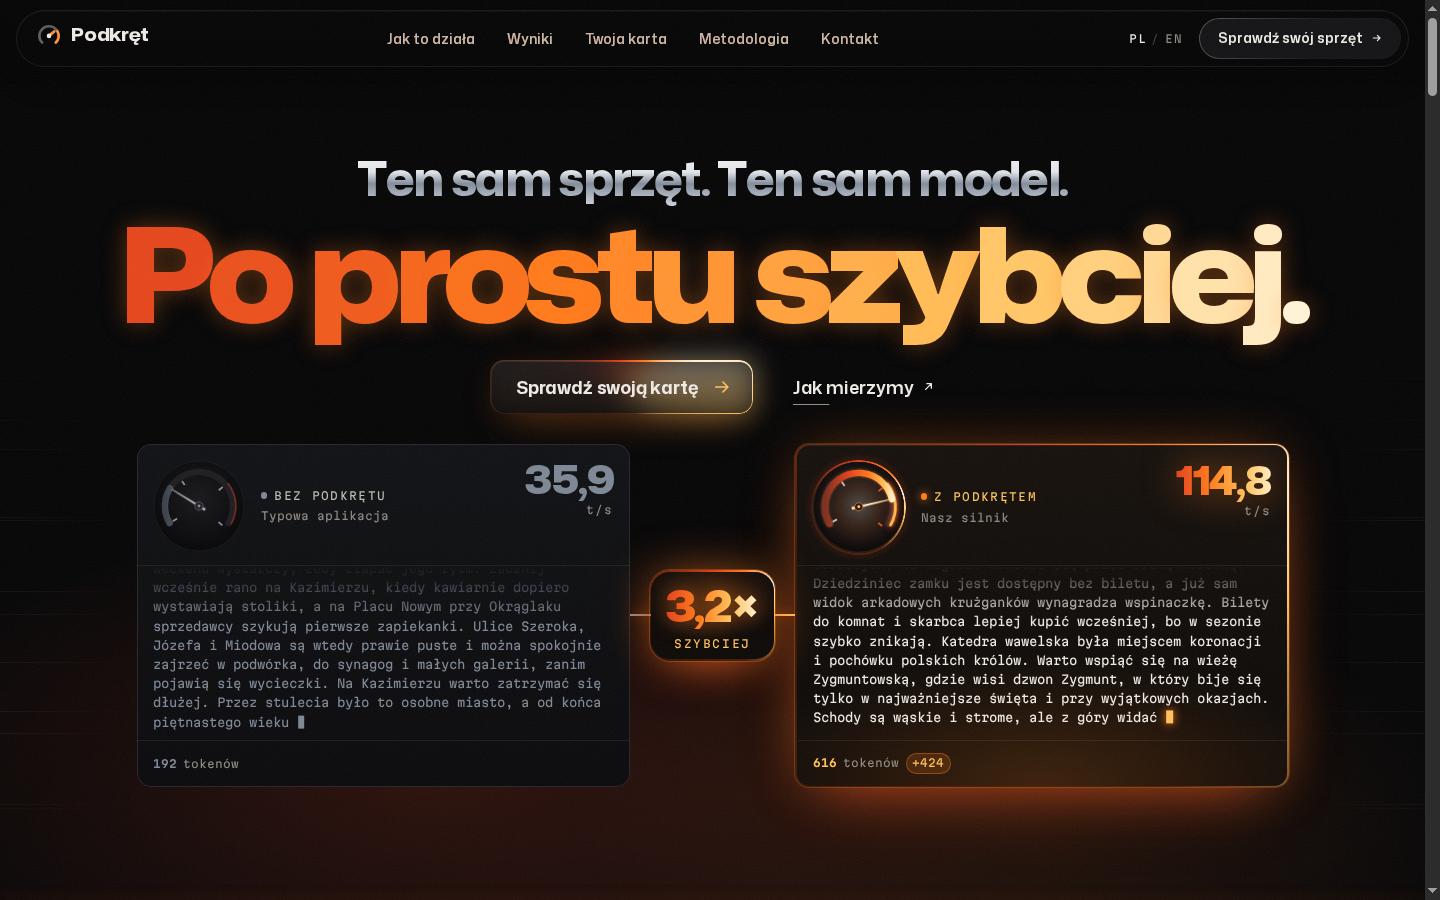
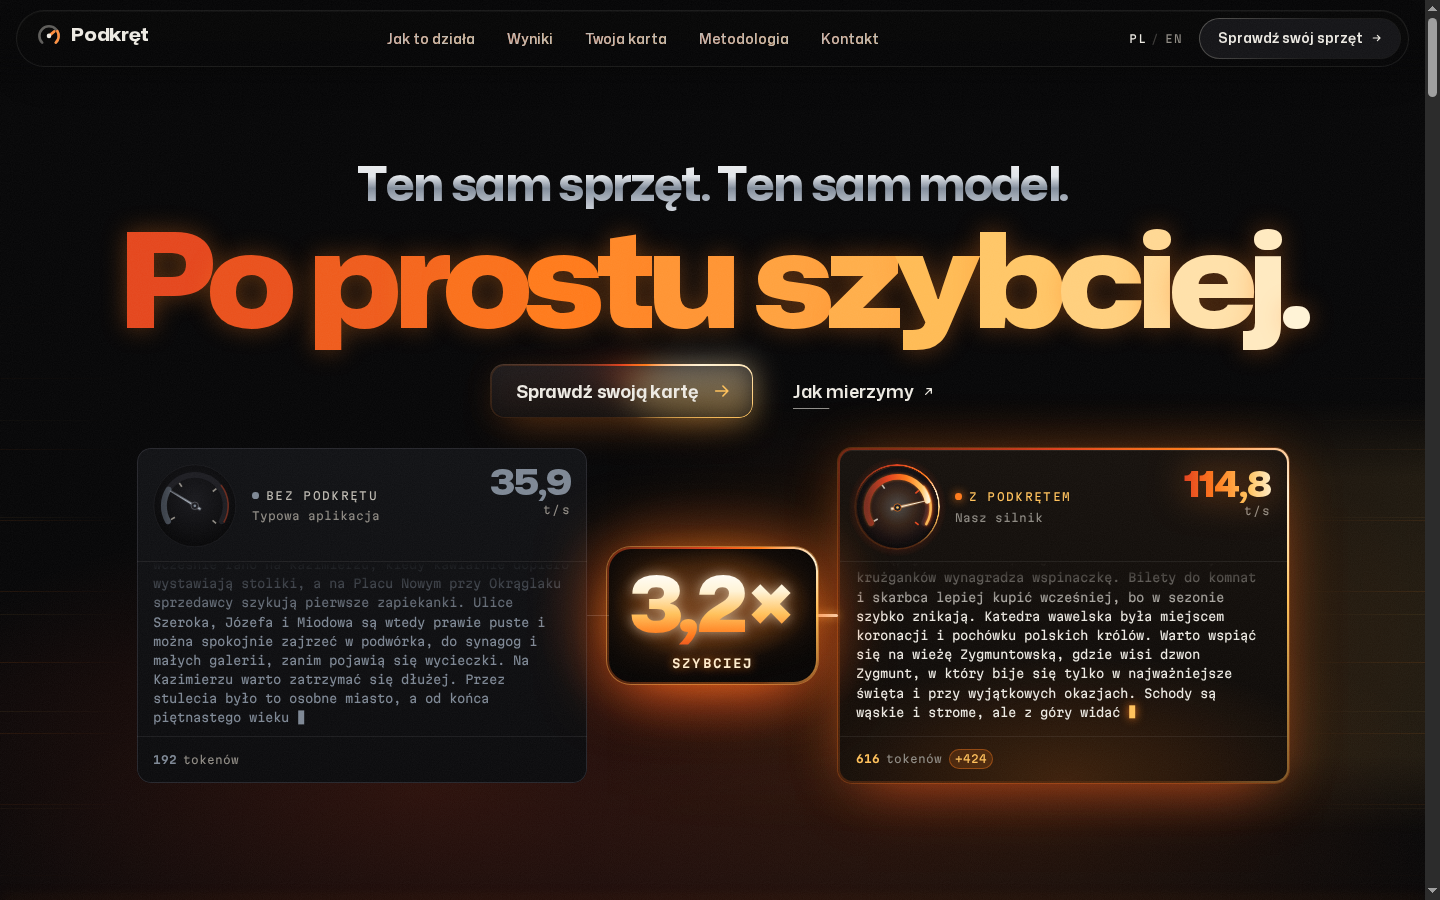
landing hero v3.2: the 3,2× badge hits hard, speed lines behind the duel
Badge (StreamDuel seam mode): about twice the size (numerals ≈ 5,5rem at 1440), white-hot to
heat gradient with its own glow, a near-black plate with a hot core, a heat bloom around it whose
opacity fires with our MTP bursts (every 6th step, ~6 Hz; the numerals pulse by transform), a
faster turning heat edge. The seam line runs dim steel into the typical pane and a bright 3 px
heat line into ours; stacked on phones it runs vertically, the badge between the panes.

Background: new fx/SpeedLines behind the duel, across the full screen width: streaks flowing
left -> right, few slow thin steel ones on the typical side (on phones: above), many fast hot ones
with a white-hot head on ours, three depths for parallax. Every streak is a composited layer
moved by a CSS transform (no canvas, no per-frame script), seeded layout (SSR = client), paused
off screen, reduced motion = a static heat gradient. The heat field idles hotter (0,8, streak
boost 0,35). qa:clip clean on /pl/ and /en/.
Screens: app/screens/v2/hero-race/ (0/2/10 s at 1440 and 390, reduced, EN).

diff --git a/app/landing/src/lib/fx/StreamDuel.svelte b/app/landing/src/lib/fx/StreamDuel.svelte
@@ -126,6 +126,10 @@
 	/** Per lane: MTP steps seen and the step twitch (alternating sign, decays in ~40 ms). */
 	const stepsSeen = [0, 0];
 	const kick = [0, 0];
+	/** The speed-up badge's burst pulse (0..1) and its layers (seam mode). */
+	let pulse = 0;
+	let coreEl: HTMLElement | undefined = $state();
+	let bloomEl: HTMLElement | undefined = $state();
 
 	function measure() {
 		feeds.forEach((f, i) => {
@@ -233,10 +237,17 @@
 					if (l.id === 'hot' && steps > stepsSeen[i]) {
 						const sign = steps % 2 ? 1 : -1;
 						kick[i] = sign * 0.025 * l.tps * (0.7 + 0.3 * Math.abs(Math.sin(steps * 1.7)));
+						// the speed-up badge fires with our bursts (every 6th step, ~6 Hz: visible, not a buzz)
+						if (steps % 6 === 0) pulse = 1;
 					}
 					stepsSeen[i] = steps;
 					kick[i] *= Math.exp(-d / 0.04);
 					dials[i]?.set(Math.max(0, s.x + kick[i]));
+				}
+				if (coreEl && bloomEl) {
+					pulse *= Math.exp(-d / 0.11);
+					coreEl.style.transform = `scale(${(1 + 0.045 * pulse).toFixed(4)})`;
+					bloomEl.style.opacity = (0.6 + 0.4 * pulse).toFixed(3);
 				}
 			})
 		);
@@ -286,8 +297,9 @@
 		{#if seam}
 			<p class="seamgain">
 				<span class="pill">
+					<span class="bloom" bind:this={bloomEl}></span>
 					<span class="ring"></span>
-					<span class="core"><Ratio value={gain} {lang} size="md" replay={countUp && ran ? 1 : 0} duration={1400} /><span class="fx">{labels.faster}</span></span>
+					<span class="core" bind:this={coreEl}><Ratio value={gain} {lang} size="md" replay={countUp && ran ? 1 : 0} duration={1400} /><span class="fx">{labels.faster}</span></span>
 				</span>
 			</p>
 		{/if}
@@ -677,7 +689,9 @@
 			gap: 0.3rem;
 		}
 	}
-	/* the speed-up: one glowing badge on the seam, a heat line running through it into both panes */
+	/* the speed-up: the hero's loudest element after the headline. A dark plate with a white-hot
+	 * core and a heat bloom that fires with our bursts; the seam line runs dim steel into the
+	 * typical pane and bright heat into ours. */
 	.seamgain {
 		grid-column: 2;
 		grid-row: 1 / span 3;
@@ -688,30 +702,53 @@
 		display: grid;
 		place-items: center;
 	}
-	.seamgain::before {
+	.seamgain::before,
+	.seamgain::after {
 		content: '';
 		position: absolute;
 		z-index: -1;
 		top: 50%;
+	}
+	.seamgain::before {
 		left: calc(-1 * var(--cg));
+		right: 50%;
+		height: 1px;
+		background: linear-gradient(90deg, rgb(125 135 148 / 0.35), rgb(125 135 148 / 0.7));
+	}
+	.seamgain::after {
+		left: 50%;
 		right: calc(-1 * var(--cg));
-		height: 2px;
+		height: 3px;
 		margin-top: -1px;
-		background: linear-gradient(90deg, var(--before), var(--heat-2) 35%, var(--heat-4));
-		box-shadow: 0 0 12px rgb(255 122 26 / 0.6);
+		border-radius: 3px;
+		background: linear-gradient(90deg, var(--heat-3), var(--heat-5));
+		box-shadow:
+			0 0 8px var(--heat-4),
+			0 0 22px rgb(255 122 26 / 0.8);
 	}
 	.pill {
 		position: relative;
 		isolation: isolate;
 		display: grid;
-		padding: 0.85rem 1rem 0.75rem;
-		border-radius: 1.25rem;
+		padding: 1rem 1.5rem 0.9rem;
+		border-radius: 1.5rem;
 		box-shadow:
-			0 0 0 1px rgb(255 122 26 / 0.3),
-			0 0 48px -6px rgb(255 122 26 / 0.65),
-			0 20px 50px -24px rgb(226 64 28 / 0.8);
+			0 0 0 1px rgb(255 193 90 / 0.45),
+			0 0 70px -4px rgb(255 122 26 / 0.75),
+			0 24px 60px -24px rgb(226 64 28 / 0.9);
 	}
-	/* a turning heat edge (compositor only) around a dark core */
+	/* the halo around the plate (opacity only: it fires with the bursts) */
+	.bloom {
+		position: absolute;
+		z-index: -2;
+		inset: -45% -35%;
+		border-radius: 50%;
+		background: radial-gradient(closest-side, rgb(255 193 90 / 0.55), rgb(255 122 26 / 0.3) 45%, rgb(226 64 28 / 0.12) 70%, transparent);
+		opacity: 0.6;
+		pointer-events: none;
+		will-change: opacity;
+	}
+	/* a turning heat edge (compositor only) around a near-black plate */
 	.ring {
 		position: absolute;
 		inset: 0;
@@ -727,8 +764,8 @@
 		width: 200%;
 		aspect-ratio: 1;
 		translate: -50% -50%;
-		background: conic-gradient(var(--heat-2), var(--heat-3) 10%, var(--heat-5) 17%, var(--heat-4) 24%, rgb(255 122 26 / 0.18) 40%, rgb(255 122 26 / 0.1) 75%, var(--heat-2));
-		animation: turn 3.2s linear infinite paused;
+		background: conic-gradient(var(--heat-2), var(--heat-3) 10%, var(--heat-5) 17%, var(--heat-4) 24%, rgb(255 122 26 / 0.25) 40%, rgb(255 122 26 / 0.15) 75%, var(--heat-2));
+		animation: turn 2.6s linear infinite paused;
 		will-change: transform;
 	}
 	.run .ring::before {
@@ -737,26 +774,37 @@
 	.ring::after {
 		content: '';
 		position: absolute;
-		inset: 1.5px;
-		border-radius: calc(1.25rem - 1.5px);
+		inset: 2px;
+		border-radius: calc(1.5rem - 2px);
 		background:
-			radial-gradient(80% 70% at 50% 30%, rgb(255 122 26 / 0.22), transparent 70%),
-			#0d0907;
+			radial-gradient(60% 55% at 50% 42%, rgb(255 243 214 / 0.16), rgb(255 122 26 / 0.12) 55%, transparent 80%),
+			#060403;
 	}
 	.core {
 		display: grid;
 		justify-items: center;
-		gap: 0.25rem;
+		gap: 0.35rem;
 		line-height: 1;
+		will-change: transform;
+	}
+	/* the factor: twice the size of a pane rate, white-hot to heat, with its own glow */
+	.pill .core :global(.speedup) {
+		--rx-fs: clamp(3rem, 1.6rem + 3.6vw, 5.75rem);
+		background: linear-gradient(180deg, #fff 8%, var(--heat-5) 32%, var(--heat-4) 58%, var(--heat-3) 82%, var(--heat-2));
+		-webkit-background-clip: text;
+		background-clip: text;
+		filter: drop-shadow(0 0 6px rgb(255 243 214 / 0.55)) drop-shadow(0 0 22px rgb(255 122 26 / 0.7));
 	}
 	.fx {
 		font-family: var(--font-mono);
-		font-size: var(--fs-2xs);
-		letter-spacing: 0.14em;
+		font-size: var(--fs-xs);
+		font-weight: 600;
+		letter-spacing: 0.18em;
 		text-transform: uppercase;
-		color: var(--heat-4);
+		color: var(--heat-5);
+		text-shadow: 0 0 10px rgb(255 122 26 / 0.8);
 	}
-	/* phones and small tablets: the panes stack; the badge sits between them, the heat line across */
+	/* phones and small tablets: the panes stack; the badge sits between them */
 	@media (max-width: 720px) {
 		.panes.seam {
 			grid-template-columns: minmax(0, 1fr);
@@ -773,11 +821,29 @@
 		.seamgain {
 			grid-column: 1;
 			grid-row: 4;
-			padding-block: 0.8rem;
+			padding-block: 1.25rem;
+		}
+		/* stacked: the seam runs vertically, dim up into the typical pane, bright down into ours */
+		.seamgain::before,
+		.seamgain::after {
+			left: 50%;
+			right: auto;
+			margin: 0;
 		}
 		.seamgain::before {
-			left: 0;
-			right: 0;
+			top: 0;
+			bottom: 50%;
+			width: 1px;
+			height: auto;
+			background: linear-gradient(180deg, rgb(125 135 148 / 0.35), rgb(125 135 148 / 0.7));
+		}
+		.seamgain::after {
+			top: 50%;
+			bottom: 0;
+			width: 3px;
+			height: auto;
+			margin-left: -1px;
+			background: linear-gradient(180deg, var(--heat-3), var(--heat-5));
 		}
 	}
 	/* a narrow header: the dial sits above the header text */

diff --git a/app/landing/src/lib/fx/SpeedLines.svelte b/app/landing/src/lib/fx/SpeedLines.svelte
@@ -1,0 +1,127 @@
+<script lang="ts">
+	/**
+	 * Speed lines behind the hero duel: light streaks flowing left → right, in two groups. The
+	 * typical app's side (left; on phones the top) gets few, thin, steel streaks that drift slowly;
+	 * our side (right; on phones the bottom) gets many hot streaks with a white-hot head that fly.
+	 * Three depths per side (far: thin, dim, slower; near: thicker, brighter, faster) give the
+	 * parallax. Every streak is its own composited layer moved by a CSS transform: no canvas, no
+	 * per-frame script. The layout is seeded, so server and client render the same streaks.
+	 * Off screen the animation pauses; reduced motion shows a static heat gradient instead.
+	 */
+	import { visible } from './actions';
+
+	/** Deterministic PRNG (mulberry32): the same streaks on the server and the client. */
+	function rng(seed: number) {
+		let a = seed;
+		return () => {
+			a = (a + 0x6d2b79f5) | 0;
+			let t = Math.imul(a ^ (a >>> 15), 1 | a);
+			t = (t + Math.imul(t ^ (t >>> 7), 61 | t)) ^ t;
+			return ((t ^ (t >>> 14)) >>> 0) / 4294967296;
+		};
+	}
+	type Streak = { y: number; len: number; h: number; d: number; delay: number; o: number; k: number };
+	/** depth 0 = far, 2 = near; `dur` = seconds to cross the side at depth 0. */
+	function streaks(n: number, seed: number, dur: number, len: number, op: number): Streak[] {
+		const r = rng(seed);
+		return Array.from({ length: n }, (_, i) => {
+			const depth = i % 3;
+			const l = len * (0.6 + 0.5 * depth + 0.4 * r());
+			const d = dur * (1 - 0.28 * depth) * (0.85 + 0.3 * r());
+			return {
+				y: 4 + 92 * r(),
+				len: l,
+				h: depth === 2 ? 2 : 1,
+				d,
+				delay: -d * r(),
+				o: op * (0.45 + 0.3 * depth) * (0.8 + 0.4 * r()),
+				// travel = the side's width + the streak's own, in units of its own width
+				k: 100 / l
+			};
+		});
+	}
+	const cold = streaks(9, 7, 7.5, 16, 0.55);
+	const hot = streaks(21, 11, 1.5, 26, 0.9);
+
+	let onScreen = $state(false);
+	const style = (s: Streak) =>
+		`top:${s.y.toFixed(2)}%;width:${s.len.toFixed(2)}%;height:${s.h}px;opacity:${s.o.toFixed(3)};--k:${s.k.toFixed(3)};animation-duration:${s.d.toFixed(2)}s;animation-delay:${s.delay.toFixed(2)}s`;
+</script>
+
+<div class="speed" class:off={!onScreen} aria-hidden="true" use:visible={(v) => (onScreen = v)}>
+	<div class="side cold">{#each cold as s, i (i)}<i style={style(s)}></i>{/each}</div>
+	<div class="side hot">{#each hot as s, i (i)}<i style={style(s)}></i>{/each}</div>
+</div>
+
+<style>
+	.speed {
+		position: absolute;
+		inset: 0;
+		pointer-events: none;
+		-webkit-mask-image: linear-gradient(180deg, transparent, #000 18%, #000 82%, transparent);
+		mask-image: linear-gradient(180deg, transparent, #000 18%, #000 82%, transparent);
+	}
+	.side {
+		position: absolute;
+		top: 0;
+		bottom: 0;
+		overflow: hidden;
+	}
+	.cold {
+		left: 0;
+		width: 50%;
+	}
+	/* our side starts a little before the seam: the hot streaks pass behind the speed-up badge */
+	.hot {
+		left: 42%;
+		right: 0;
+		/* a faint heat floor under the streaks */
+		background: radial-gradient(70% 60% at 60% 55%, rgb(255 122 26 / 0.07), transparent 70%);
+	}
+	i {
+		position: absolute;
+		left: 0;
+		border-radius: 999px;
+		transform: translate3d(-100%, 0, 0);
+		animation-name: run;
+		animation-timing-function: linear;
+		animation-iteration-count: infinite;
+		will-change: transform;
+	}
+	.cold i {
+		background: linear-gradient(90deg, transparent, rgb(125 135 148 / 0.5) 70%, rgb(201 207 216 / 0.8));
+	}
+	.hot i {
+		background: linear-gradient(90deg, transparent, rgb(226 64 28 / 0.55) 45%, var(--heat-3) 80%, var(--heat-5));
+		box-shadow: 0 0 6px rgb(255 122 26 / 0.45);
+	}
+	@keyframes run {
+		to {
+			transform: translate3d(calc(var(--k) * 100%), 0, 0);
+		}
+	}
+	.off i {
+		animation-play-state: paused;
+	}
+	/* phones (the panes stack): our side below the typical one */
+	@media (max-width: 720px) {
+		.cold {
+			width: 100%;
+			bottom: 52%;
+		}
+		.hot {
+			left: 0;
+			top: 46%;
+		}
+	}
+	@media (prefers-reduced-motion: reduce) {
+		i {
+			display: none;
+		}
+		.hot {
+			background:
+				linear-gradient(90deg, transparent, rgb(255 122 26 / 0.08) 50%, rgb(255 193 90 / 0.1)),
+				radial-gradient(70% 60% at 60% 55%, rgb(255 122 26 / 0.07), transparent 70%);
+		}
+	}
+</style>

diff --git a/app/landing/src/lib/home/Hero.svelte b/app/landing/src/lib/home/Hero.svelte
@@ -14,6 +14,7 @@
 	 */
 	import { magnetic } from '$lib/fx/actions';
 	import HeatField from '$lib/fx/HeatField.svelte';
+	import SpeedLines from '$lib/fx/SpeedLines.svelte';
 	import StreamDuel from '$lib/fx/StreamDuel.svelte';
 	import { variantLabel } from '$lib/data/measurements';
 	import { fmtTps } from '$lib/format';
@@ -51,7 +52,7 @@
 </script>
 
 <section class="hero" class:hot={heat} aria-labelledby="hero-title">
-	<HeatField heat={heat ? 1 : 0.62} boost={heat ? 1 : 0} />
+	<HeatField heat={heat ? 1 : 0.8} boost={heat ? 1 : 0.35} />
 	<div class="veil" aria-hidden="true"></div>
 	{#if bloomed}<div class="bloom" aria-hidden="true"></div>{/if}
 	<div class="inner">
@@ -69,6 +70,7 @@
 			</a>
 		</div>
 		<div class="race">
+			<div class="lines"><SpeedLines /></div>
 			<!-- keyed: the duel caches its text nodes, so a language switch mounts a fresh one -->
 			{#key lang}
 				<StreamDuel {lanes} {gain} text={r.stream} {lang} labels={dl} {summary} {dial} countUp seam {onstart} />
@@ -317,7 +319,14 @@
 		outline-offset: 4px;
 		border-radius: 4px;
 	}
+	/* the speed lines run the full width of the screen behind the duel (the hero clips them) */
+	.lines {
+		position: absolute;
+		z-index: -1;
+		inset: -14% calc(50% - 50vw) -10%;
+	}
 	.race {
+		position: relative;
 		width: min(100%, 72rem);
 		min-width: 0;
 		text-align: left;

diff --git a/app/design/REDESIGN.md b/app/design/REDESIGN.md
@@ -104,7 +104,7 @@ The comparison uses only same-harness numbers: RTX 3090, Qwen3.8-27B UD-Q4_K_XL,
 | 0.10–0.60 s | „Ten sam sprzęt.” Each glyph rises 0.4em from a mask, weight 300 → 800, width 75 → 100, 35 ms stagger. |
 | 0.35–0.85 s | „Ten sam model.” Same treatment. |
 | 0.70–1.40 s | „Po prostu szybciej.” Width animates 75 → 125 (the line literally widens, as if accelerating). The fill is the heat ramp; a speed streak passes through it once. |
-| 1.20 s | The duel rises in (`fx/StreamDuel`, the same component as the final CTA): two terminal panes on our lab card, RX 7900 XTX × Qwen3.8-27B (one script, ABBA). Left „Bez Podkrętu · Typowa aplikacja” (steel), right „Z Podkrętem · Nasz silnik” (heat gradient digits, turning heat edge); each rate (35,9 / 114,8 t/s) in its header's top-right corner, „3,2× szybciej” as one glowing badge on the seam between the panes (a heat line runs through it; ≤ 720 px the panes stack and the badge sits between them). A small speedometer (`fx/Speedo` compact, 0–140, red from 100) sits left of each header; with JS it reads 0. No caption, source pill or live badge (sources: /metodologia, the boost section, the card page). |
+| 1.20 s | The duel rises in (`fx/StreamDuel`, the same component as the final CTA): two terminal panes on our lab card, RX 7900 XTX × Qwen3.8-27B (one script, ABBA). Left „Bez Podkrętu · Typowa aplikacja” (steel), right „Z Podkrętem · Nasz silnik” (heat gradient digits, turning heat edge); each rate (35,9 / 114,8 t/s) in its header's top-right corner, „3,2× szybciej” as the loudest element after the headline: a big badge on the seam (dark plate, white-hot to heat numerals ≈ 5,5rem at 1440, a heat bloom that fires with our MTP bursts, a turning heat edge), the seam line dim steel into the typical pane and bright heat into ours (≤ 720 px the panes stack, the badge between them, the seam vertical). Behind the duel, `fx/SpeedLines`: streaks flowing left → right across the screen, few slow steel ones on the typical side, many fast hot ones on ours, three depths for parallax (transform only, paused off screen, reduced motion: a static gradient); the heat field runs a little hotter all the time. A small speedometer (`fx/Speedo` compact, 0–140, red from 100) sits left of each header; with JS it reads 0. No caption, source pill or live badge (sources: /metodologia, the boost section, the card page). |
 | first frame on screen | GO, once: the heat field runs hot, a bloom sweeps the hero, the speed-up counts up from 1×, both needles climb to the measured speed and stay there, never still: ours swings ±7% at ~1–5 Hz with a twitch on every MTP step (alternating sign) and its red zone flickers lit; the typical app wobbles ±3% slowly. All zero-mean: the average is exactly the measured median. |
 | then, nonstop | Both panes stream the same answer at the measured median t/s (ours in MTP steps = t/s × measured ms/step), each window following its newest line and wrapping into the next copy; token counters grow, with our live lead. No restarts. Pause under the panes; off screen the loop sleeps and continues where it was; reduced motion shows one static frame (needles on the measured speed). |
 
